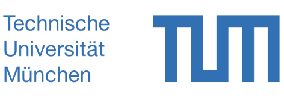
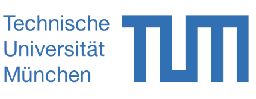
consortium

diff --git a/_pages/teaching.html b/_pages/teaching.html
@@ -42,13 +42,13 @@ author_profile: true
 
 <div class="clearfix">
   <div class="img-container">
-  <img src="/images/TUM2.png" alt="TUM" style="height:100;margin-left: 0.6em">
+  <img src="/images/TUM2.png" alt="TUM" style="height:100;margin-left: 0.3em">
   </div>
   <div class="img-container">
-  <img src="/images/BME.png" alt="BME" style="height:100;margin-left: 0.6em">
+  <img src="/images/BME.png" alt="BME" style="height:100;margin-left: 0.3em">
   </div>
   <div class="img-container">
-  <img src="/images/UCM.png" alt="UCM" style="height:100;margin-left: 0.6em">
+  <img src="/images/UCM.png" alt="UCM" style="height:100;margin-left: 0.3em">
   </div>
 </div>
 
